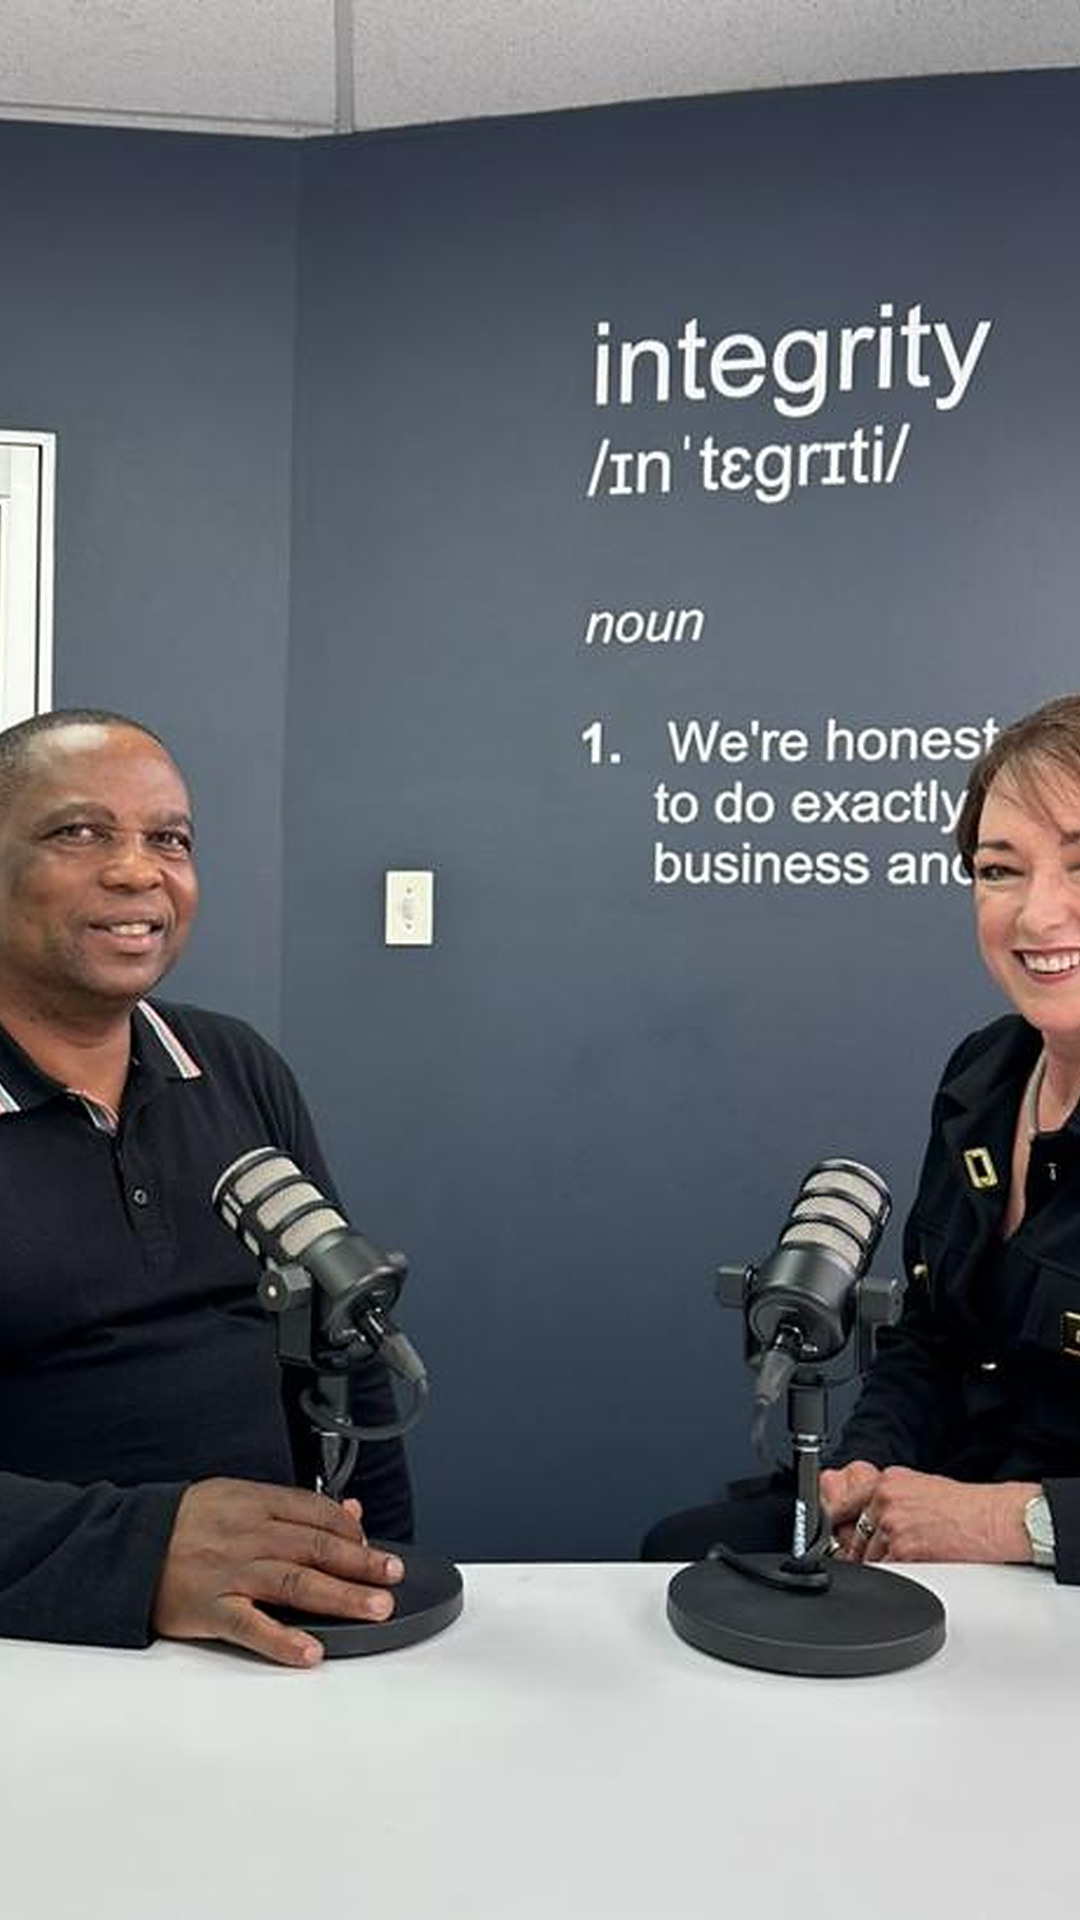
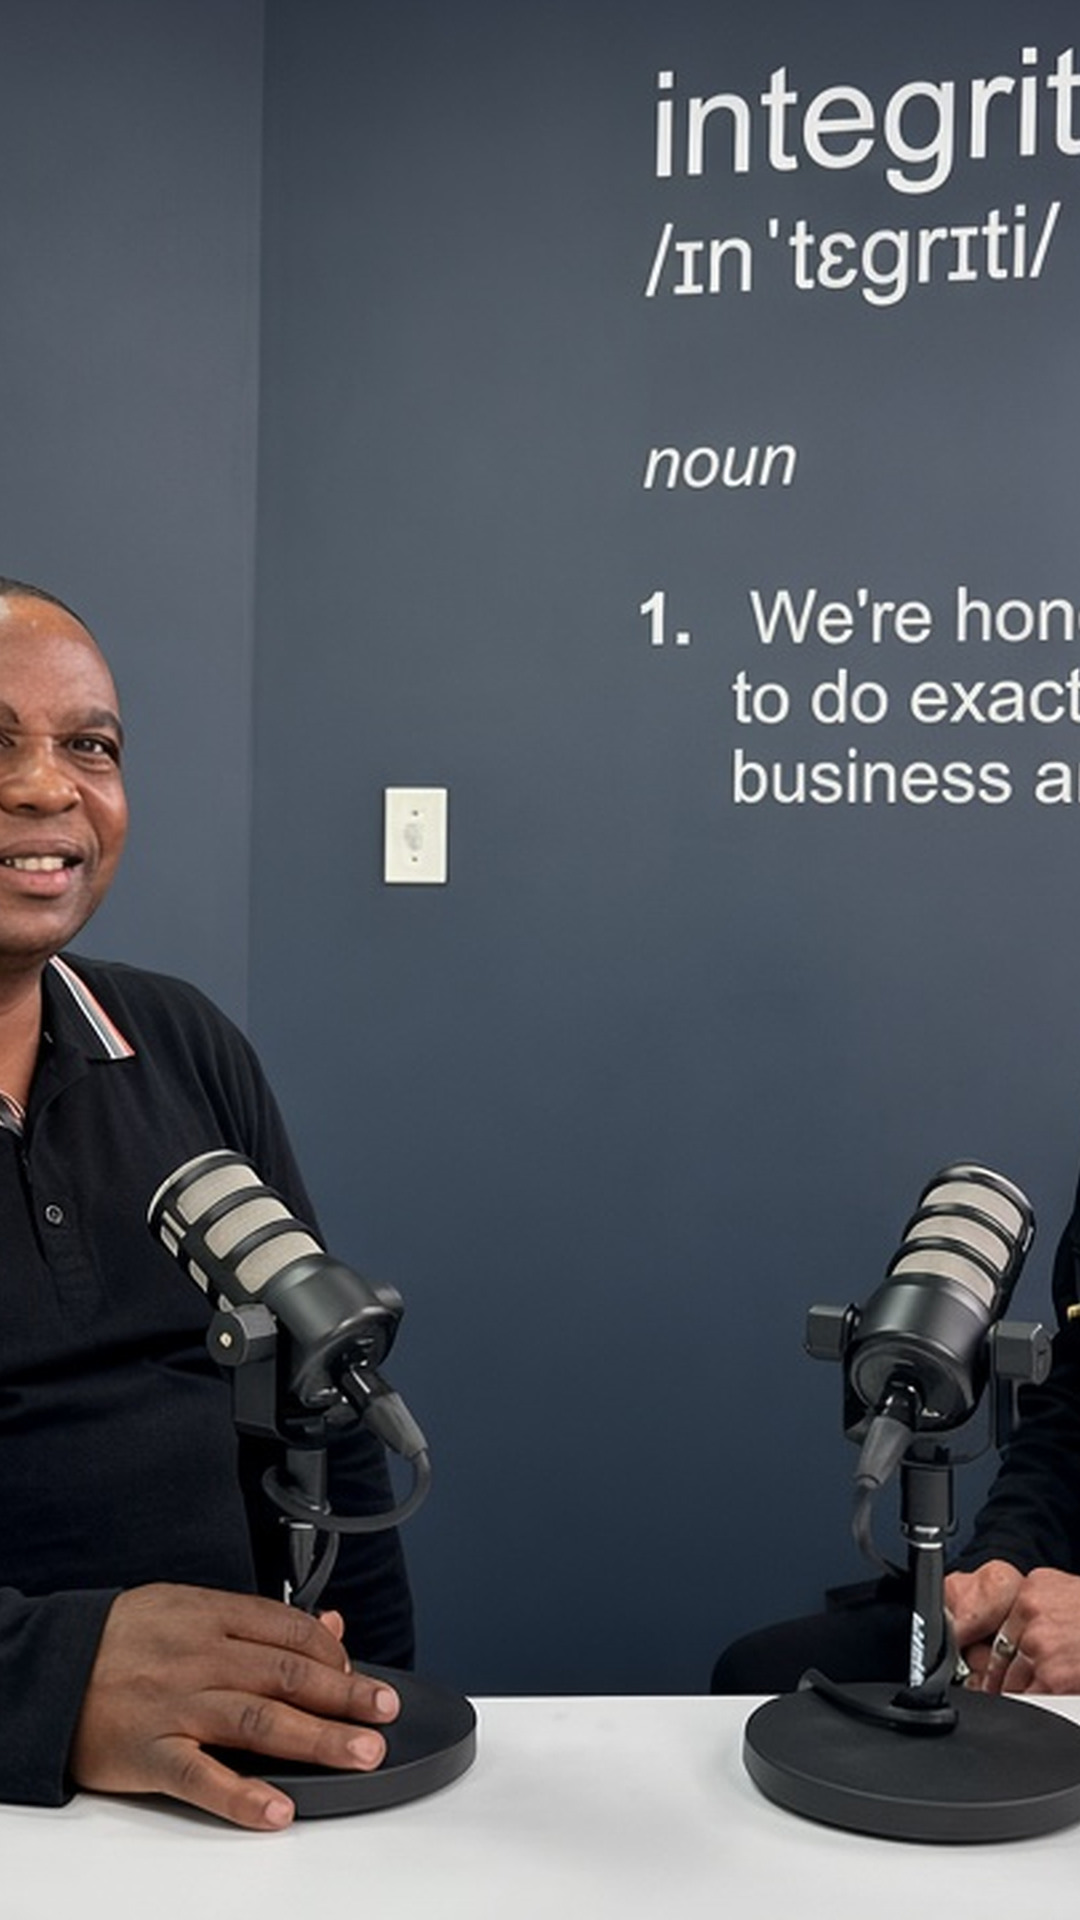
Restore sharper studio, mic, and cover photos from the originals.
The full-bleed frames were still soft because the only source was a small graphic.

diff --git a/index.html b/index.html
@@ -169,13 +169,13 @@
   <div class="story__stage">
     <div class="story__media" data-story-img>
       <div class="ph ph--photo story__slide" data-slide>
-        <img src="assets/hero-studio.jpg" alt="Peter Mehlape recording Off The Clock with a guest." width="2340" height="2460">
+        <img src="assets/hero-studio.jpg" alt="Peter Mehlape recording Off The Clock with a guest." width="2560" height="1440">
       </div>
       <div class="ph ph--photo story__slide" data-slide>
-        <img src="assets/winning-in-africa.jpg" alt="Cover of Winning in Africa by Peter Mehlape." width="1708" height="2560" style="object-position:center 18%">
+        <img src="assets/winning-in-africa.jpg" alt="Cover of Winning in Africa by Peter Mehlape." width="1728" height="2304" style="object-position:center 18%">
       </div>
       <div class="ph ph--photo story__slide" data-slide>
-        <img src="assets/hero-studio.jpg" alt="Peter Mehlape recording Off The Clock with a guest." width="2340" height="2460" style="object-position:70% center">
+        <img src="assets/hero-studio.jpg" alt="Peter Mehlape recording Off The Clock with a guest." width="2560" height="1440" style="object-position:70% center">
       </div>
     </div>
     <div class="story__shade" data-story-shade></div>
@@ -212,10 +212,10 @@
     </div>
     <div class="topics__viewport">
       <div class="topics__track" data-track>
-        <a class="tcard" href="#episodes"><div class="tcard__media"><div class="zoom"><div class="ph ph--photo"><img src="assets/hero-studio.jpg" alt="Peter Mehlape recording with a guest." width="2340" height="2460" style="object-position:18% 35%" loading="lazy"></div></div></div><span class="tcard__label">Leadership</span><span class="tcard__meta">Demystifying the CEO, and the human underneath the title</span></a>
-        <a class="tcard" href="#episodes"><div class="tcard__media"><div class="zoom"><div class="ph ph--photo"><img src="assets/crop-mics.jpg" alt="Two microphones in the studio." width="1600" height="1000" loading="lazy"></div></div></div><span class="tcard__label">Wellbeing</span><span class="tcard__meta">Rest, stress, sleep — not off-limits in the corner office</span></a>
+        <a class="tcard" href="#episodes"><div class="tcard__media"><div class="zoom"><div class="ph ph--photo"><img src="assets/hero-studio.jpg" alt="Peter Mehlape recording with a guest." width="2560" height="1440" style="object-position:18% 35%" loading="lazy"></div></div></div><span class="tcard__label">Leadership</span><span class="tcard__meta">Demystifying the CEO, and the human underneath the title</span></a>
+        <a class="tcard" href="#episodes"><div class="tcard__media"><div class="zoom"><div class="ph ph--photo"><img src="assets/crop-mics.jpg" alt="Two microphones in the studio." width="2400" height="1350" loading="lazy"></div></div></div><span class="tcard__label">Wellbeing</span><span class="tcard__meta">Rest, stress, sleep — not off-limits in the corner office</span></a>
         <a class="tcard" href="#hello"><div class="tcard__media"><div class="zoom"><div class="ph" style="--g1:#1a3358;--g2:#0f233f;--g3:#70ccdc"></div></div></div><span class="tcard__label">Work and life</span><span class="tcard__meta">How leaders actually live while doing the job</span></a>
-        <a class="tcard" href="#story"><div class="tcard__media"><div class="zoom"><div class="ph ph--photo"><img src="assets/winning-in-africa.jpg" alt="Cover of Winning in Africa by Peter Mehlape." width="1708" height="2560" style="object-position:center 20%" loading="lazy"></div></div></div><span class="tcard__label">Winning in Africa</span><span class="tcard__meta">Your next 8 moves for business success in Africa</span></a>
+        <a class="tcard" href="#story"><div class="tcard__media"><div class="zoom"><div class="ph ph--photo"><img src="assets/winning-in-africa.jpg" alt="Cover of Winning in Africa by Peter Mehlape." width="1728" height="2304" style="object-position:center 20%" loading="lazy"></div></div></div><span class="tcard__label">Winning in Africa</span><span class="tcard__meta">Your next 8 moves for business success in Africa</span></a>
         <a class="tcard" href="https://www.youtube.com/watch?v=ofamGq9n7OQ" target="_blank" rel="noopener"><div class="tcard__media"><div class="zoom"><div class="ph ph--photo"><img src="assets/behind-the-mic.jpg" alt="Peter Mehlape in the studio with a guest." width="2560" height="1920" style="object-position:62% center" loading="lazy"></div></div></div><span class="tcard__label">On YouTube</span><span class="tcard__meta">Full episodes, starting with episode one</span></a>
       </div>
     </div>
@@ -272,7 +272,7 @@
 <section class="mission" id="mission">
   <div class="mission__media media-drift">
     <div class="ph ph--photo" data-drift>
-      <img src="assets/hero-studio.jpg" alt="Peter Mehlape recording Off The Clock with a guest." width="2340" height="2460" style="object-position:center 40%">
+      <img src="assets/hero-studio.jpg" alt="Peter Mehlape recording Off The Clock with a guest." width="2560" height="1440" style="object-position:center 40%">
     </div>
   </div>
   <div class="mission__shade"></div>
